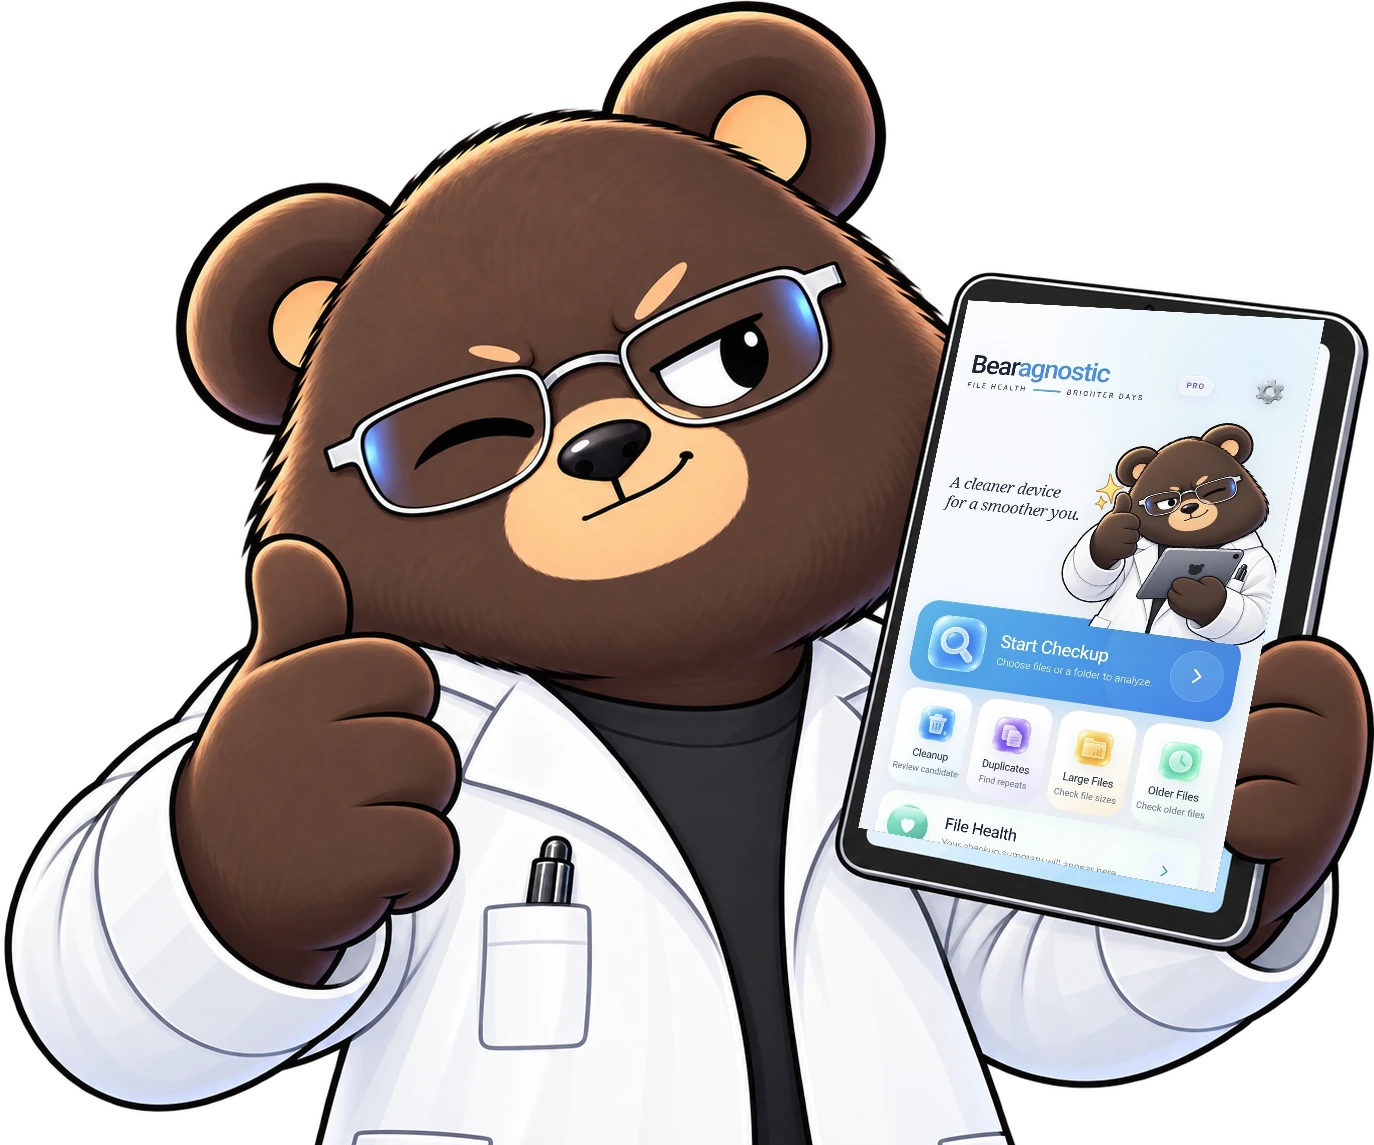
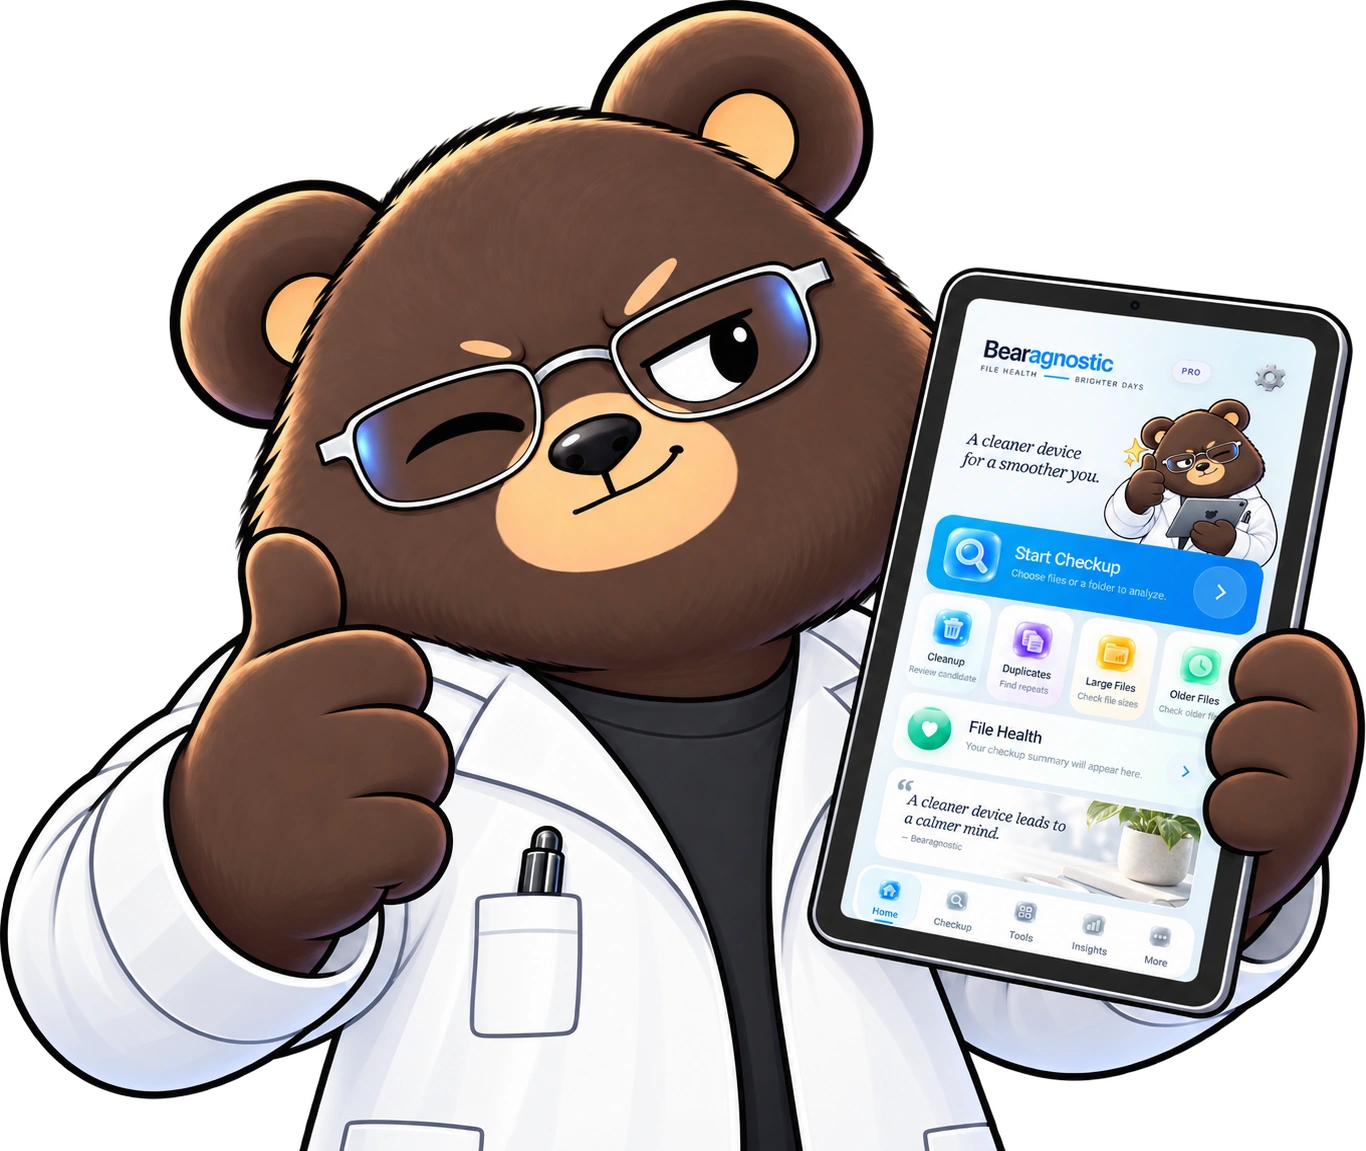
Polished hero

diff --git a/src/styles/bearagnostic-showcase.css b/src/styles/bearagnostic-showcase.css
@@ -1,14 +1,12 @@
 /*
- * Benedict Interactive — Bearagnostic Showcase V2
+ * Benedict Interactive — Bearagnostic Showcase V3
  * Baseline: main 035342d12f940b22771db871b48038740bce5bec
  *
- * Prototype scope:
- * - premium Master Hero treatment using approved Dr. Bear artwork
- * - premium first feature stage using real/sanitized B93 scan UI + Dr. Bear
- * - moves product storytelling ahead of release evidence visually
- *
- * This stylesheet is additive, scoped to .bear-page, and does NOT change
- * release, download, commerce, entitlement, FAQ, legal, or support logic.
+ * Refinements in V3:
+ * - approved corrected Master Hero asset replaces V2 hero image
+ * - hero composition preserved but now uses the fixed tablet-hand artwork
+ * - first feature composition refined so the real scan screen remains clearly visible on desktop
+ * - mobile behaviour preserved and kept lightweight / low-regression
  */
 
 /* ---------- Story order ---------- */
@@ -78,13 +76,13 @@
   filter: blur(20px);
 }
 
-/* Preserve the existing semantic <img>, but use the new approved hero asset as the visible layer. */
+/* Visible hero layer uses the approved corrected tablet-hand artwork. */
 .bear-page .bear-showcase .bear-character-hero {
   z-index: 3;
   inset-inline-start: -8%;
   inset-block-end: 0;
   width: min(111%, 780px);
-  aspect-ratio: 1374 / 1145;
+  aspect-ratio: 1366 / 1151;
   margin: 0;
   background: url('/products/bearagnostic/showcase/dr-bear-hero-real-ui.webp') center bottom / contain no-repeat;
   filter: drop-shadow(0 30px 30px rgba(20,56,92,.11));
@@ -98,7 +96,7 @@
   opacity: 0;
 }
 
-/* The real app screen is already composited into Dr. Bear's tablet; the old second phone would duplicate it. */
+/* Hide legacy duplicate phone; the real UI already lives inside Dr. Bear's tablet. */
 .bear-page .bear-showcase .bear-phone-hero {
   display: none !important;
 }
@@ -152,7 +150,7 @@
 }
 
 .bear-page .feature-stories .feature-story:first-child .feature-story-visual {
-  min-height: 630px;
+  min-height: 640px;
   overflow: visible;
   isolation: isolate;
 }
@@ -168,9 +166,9 @@
 .bear-page .feature-stories .feature-story:first-child .feature-story-visual::after {
   position: absolute;
   z-index: -2;
-  inset-inline-start: 11%;
-  inset-block-start: 15%;
-  width: min(72%, 430px);
+  inset-inline-start: 10%;
+  inset-block-start: 14%;
+  width: min(68%, 430px);
   aspect-ratio: 1;
   border: 1px solid rgba(26,151,221,.09);
   border-radius: 50%;
@@ -181,12 +179,12 @@
   pointer-events: none;
 }
 
-/* Existing first phone becomes the real, privacy-sanitized B93 scan screen. */
+/* Real scan UI — make it the primary reading object on desktop. */
 .bear-page .feature-stories .feature-story:first-child .device-primary {
-  z-index: 2;
-  inset-inline-start: 4%;
-  inset-block-start: 2%;
-  width: min(45%, 274px);
+  z-index: 5;
+  inset-inline-start: 3%;
+  inset-block-start: 0;
+  width: min(49%, 312px);
   padding: 7px;
   overflow: hidden;
   border: 1px solid rgba(21,62,101,.10);
@@ -196,7 +194,7 @@
   box-shadow:
     0 34px 80px rgba(24,66,107,.18),
     0 8px 24px rgba(24,66,107,.08);
-  transform: rotate(-2.1deg) translateZ(0);
+  transform: rotate(-2.4deg) translateZ(0);
 }
 
 .bear-page .feature-stories .feature-story:first-child .device-primary > img {
@@ -210,19 +208,19 @@
   z-index: 8;
 }
 
-/* Existing detail panel becomes the new scanning Dr. Bear, breaking the frame slightly. */
+/* Dr. Bear supports the story but no longer blocks the scan screen on desktop. */
 .bear-page .feature-stories .feature-story:first-child .device-secondary {
-  z-index: 5;
-  inset-inline-end: -6%;
+  z-index: 4;
+  inset-inline-end: -2%;
   inset-block-end: -3%;
-  width: min(76%, 490px);
+  width: min(58%, 382px);
   aspect-ratio: 1;
   overflow: visible;
   border: 0;
   border-radius: 0;
   background: url('/products/bearagnostic/showcase/dr-bear-ultra-fast-scanning.webp') center / contain no-repeat;
   box-shadow: none;
-  transform: rotate(.8deg) translateZ(0);
+  transform: rotate(.5deg) translateZ(0);
   pointer-events: none;
 }
 
@@ -238,9 +236,9 @@
 .bear-page .feature-stories .feature-story:first-child .device-primary::after {
   position: absolute;
   z-index: 8;
-  inset-inline-end: -52%;
-  inset-block-start: 33%;
-  width: 62%;
+  inset-inline-end: -42%;
+  inset-block-start: 34%;
+  width: 54%;
   height: 2px;
   border-radius: 999px;
   background: linear-gradient(90deg, rgba(38,179,236,0), rgba(38,179,236,.72), rgba(91,206,244,0));
@@ -259,20 +257,20 @@
   }
 
   .bear-page .feature-stories .feature-story:first-child {
-    min-height: 660px;
+    min-height: 680px;
   }
 
   .bear-page .feature-stories .feature-story:first-child .feature-story-visual {
-    min-height: 570px;
+    min-height: 590px;
   }
 
   .bear-page .feature-stories .feature-story:first-child .device-primary {
-    width: min(44%, 242px);
+    width: min(47%, 272px);
   }
 
   .bear-page .feature-stories .feature-story:first-child .device-secondary {
-    inset-inline-end: -8%;
-    width: min(78%, 455px);
+    inset-inline-end: -4%;
+    width: min(60%, 360px);
   }
 }
 
@@ -323,6 +321,7 @@
   }
 
   .bear-page .feature-stories .feature-story:first-child .device-primary {
+    z-index: 3;
     inset-inline-start: 4%;
     inset-block-start: 2%;
     width: min(43%, 238px);
@@ -330,6 +329,7 @@
   }
 
   .bear-page .feature-stories .feature-story:first-child .device-secondary {
+    z-index: 4;
     inset-inline-end: -5%;
     inset-block-end: -1%;
     width: min(75%, 440px);

diff --git a/README.md b/README.md
@@ -1,4 +1,4 @@
-# Benedict Interactive — Bearagnostic Showcase V2
+# Benedict Interactive — Bearagnostic Showcase V3
 
 ## Baseline
 Built against repository `grolygori789-crypto/benedict-interactive-web`:
@@ -8,20 +8,19 @@ Built against repository `grolygori789-crypto/benedict-interactive-web`:
 - `src/styles/mobile-hardening.css` blob: `b859b2fa6a98f9c4a5eacd159c8d53ebdc2a664c`
 
 ## What changes
-This is deliberately a low-regression visual prototype.
+This remains a low-regression visual prototype.
 
-1. Adds `src/styles/bearagnostic-showcase.css`.
-2. Updates `src/layouts/SiteLayout.astro` only to import that stylesheet after `mobile-hardening.css`.
-3. Adds three showcase assets under `public/products/bearagnostic/showcase/`.
-4. Does **not** replace `BearagnosticPage.astro` and does not modify product/release/commerce/legal/support logic.
+1. Keeps the additive `src/styles/bearagnostic-showcase.css` approach.
+2. Keeps `src/layouts/SiteLayout.astro` importing that stylesheet after `mobile-hardening.css`.
+3. Replaces the hero artwork with the approved corrected Dr. Bear tablet-hand asset.
+4. Refines the first feature-stage composition so the real scan-progress screen is visible on desktop instead of being blocked by Dr. Bear.
+5. Does **not** modify product / release / commerce / legal / support logic.
 
 ## Visual result
-- The Bearagnostic hero uses the new Master Hero Dr. Bear.
-- The B93 Home screen supplied by the project owner has been perspective-composited into Dr. Bear's tablet.
-- The existing second hero phone is hidden to avoid duplicate product UI.
-- The first feature story becomes a premium device stage using the real B93 scan-progress screen plus the new Ultra-fast Dr. Bear art.
-- The scan screenshot has only the sensitive filename/path area replaced with neutral copy; the rest of the screenshot is preserved.
-- Product storytelling is visually ordered before release evidence. Release, Pro, purchase and FAQ sections remain intact below.
+- The Bearagnostic hero now uses the corrected Dr. Bear PNG composition with the real B93 Home screen visible cleanly inside the tablet.
+- The old duplicate hero phone stays hidden.
+- The first feature story still uses the privacy-sanitized B93 scan-progress screen, but the desktop composition now prioritizes scan readability while keeping Dr. Bear as a premium supporting visual.
+- Tablet / mobile breakpoints preserve the more compact overlapping composition where it already worked well.
 
 ## Upload
 Upload the package contents from the repository root, preserving paths exactly.
@@ -37,18 +36,11 @@ public/products/bearagnostic/showcase/app-scan-progress-sanitized.webp
 ```
 
 ## Rollback
-To revert the prototype safely:
+To revert safely:
 
 1. Restore the previous `src/layouts/SiteLayout.astro` (remove the `bearagnostic-showcase.css` import).
 2. Delete `src/styles/bearagnostic-showcase.css`.
-3. The three showcase assets may be deleted or left unused; they do not affect runtime logic.
-
-No Android / B93 source is touched.
+3. The showcase assets may be deleted or left unused.
 
 ## Suggested commit
-`Prototype Bearagnostic showcase`
-
-## Web asset optimisation
-
-The approved PNG source artwork was converted to high-quality WebP for the website upload. The three live assets total roughly 545 KB instead of roughly 3.8 MB as PNG, while preserving transparency on both Dr. Bear illustrations. This keeps the prototype much lighter on mobile.
-
+`Polish Bearagnostic showcase`
